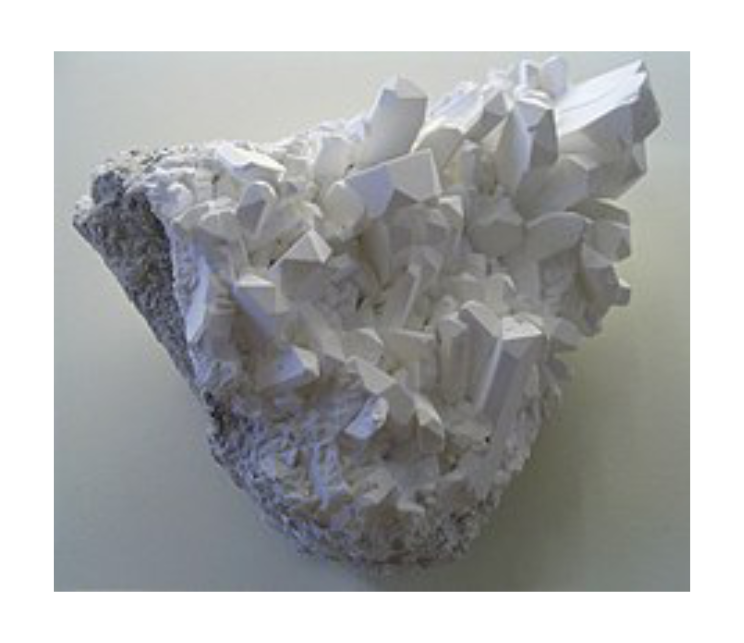
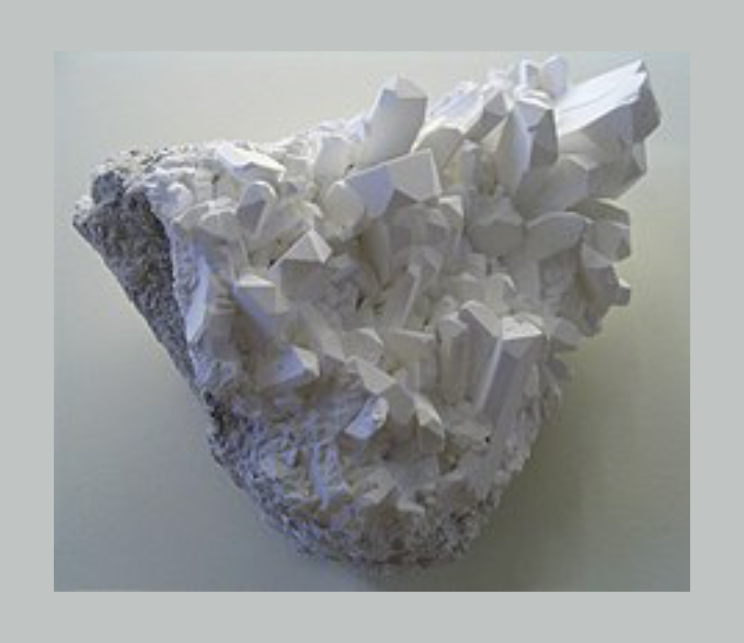
[Card] Adding more images + fix picto color depending on atom group

Changed region(s): [[0.0, 0.0, 1.0, 1.0]]

diff --git a/generate_cards_from_csv.py b/generate_cards_from_csv.py
@@ -2,10 +2,17 @@ from csv import DictReader
 import os
 from pathlib import Path
 
+from alive_progress import alive_bar
+from unidecode import unidecode
+
 from generate_card import generate_tradecard_image
 
 def str_round(str:str, nb:int):
-    return f"{round(float(str.replace(',','.')),2)}"
+    try :
+        convert = f"{round(float(str.replace(',','.')),2)}"
+    except:
+        convert = str
+    return convert
 
 def generate_tradecard_image_from_csv(
     csv_filepath,
@@ -13,7 +20,8 @@ def generate_tradecard_image_from_csv(
     atom_img_dirpath,
     picto_img_filepath,
     output_dirpath,
-    show_result=False):
+    show_result=False,
+    save=True):
 
     # read CSV
     with open(csv_filepath, 'r') as csv_file:
@@ -43,56 +51,70 @@ def generate_tradecard_image_from_csv(
             "métal de post-transition" : (102,59,59),
             "metalloïde" : (17,59,59),
             "autre non-métal" : (15,178,0),
+            "non-métal" : (15,178,0),
             "halogène" : (216,171,33),
-            "gas noble" : (155,0,187),
+            "gaz noble" : (155,0,187),
             "non classé" : (104,105,113)
         }
 
         # loop over the CSV lines and generate one card per CSV line
-        for row in reader:
-            number = row["numero_atomique"]
-            name = row["nom"]
-            symbol = row["symbole"]
-            subgroup = row["famille_d_element"]
-            mass = str_round(row["masse_atomique"], 2)
-            melt_temperature = str_round(row["point_de_fusion_[°C]"], 2)
-            vapor_temperature = str_round(row["point_d_ebullition_[°C]"], 2)
-            discovery_year = row["date_de_decouverte"]
-            #discovered_by = row["decouvert_par"]
-            description = row["description"]
+        rows = list(reader)
+        nb_rows = len(rows)
 
-            atom_img_filepath = atom_img_dirpath / Path(f"{name}.png")
-            atom_title = f"{name.capitalize()} ({symbol})"
-            atom_subgroup_title = f"{subgroup.capitalize()}"
-            atom_kpis = [f"{number}", f"{mass} u", f"{melt_temperature}°C", f"{vapor_temperature}°C", f"{discovery_year}"]
+        exports = []
 
-            if subgroup not in picto_color_map:
-                print(f"-- Cannot find picto color for {name} : {subgroup} - Skipped")
-                continue
+        with alive_bar(nb_rows) as bar:
 
-            picto_color = picto_color_map[subgroup]
+            for row in rows:
 
-            output_path = output_dirpath / Path(f"{name}.png")
+                number = row["numero_atomique"]
+                name = row["nom"]
+                symbol = row["symbole"]
+                subgroup = row["famille_d_element"]
+                mass = str_round(row["masse_atomique"], 2)
+                melt_temperature = str_round(row["point_de_fusion_[°C]"], 2)
+                vapor_temperature = str_round(row["point_d_ebullition_[°C]"], 2)
+                discovery_year = row["date_de_decouverte"]
+                #discovered_by = row["decouvert_par"]
+                description = row["description"]
 
-            if not os.path.isfile(atom_img_filepath):
-                print(f"-- Cannot find image for {name} : {atom_img_filepath} - Skipped")
-                continue
+                atom_img_filepath = atom_img_dirpath / Path(f"{unidecode(name)}.png")
+                atom_title = f"{name.capitalize()} ({symbol})"
+                atom_subgroup_title = f"{subgroup.capitalize()}"
+                atom_kpis = [f"{number}", f"{mass} u", f"{melt_temperature} °C", f"{vapor_temperature} °C", f"{discovery_year}"]
 
-            img = generate_tradecard_image(
-                background_img_filepath,
-                atom_img_filepath,
-                atom_title,
-                atom_subgroup_title,
-                picto_img_filepath,
-                picto_color,
-                atom_kpis,
-                description)
+                if subgroup not in picto_color_map:
+                    print(f"-- Cannot find picto color for {name} : {subgroup} - Skipped")
+                    continue
 
-            if show_result:
-                img.show()
+                picto_color = picto_color_map[subgroup]
 
-            img.save(output_path)
-            print(f"{name} : Card image saved to {output_path}")
+                output_path = output_dirpath / Path(f"{name}.png")
+
+                if not os.path.isfile(atom_img_filepath):
+                    print(f"-- Cannot find image for {name} : {atom_img_filepath} - Skipped")
+                    continue
+
+                img = generate_tradecard_image(
+                    background_img_filepath,
+                    atom_img_filepath,
+                    atom_title,
+                    atom_subgroup_title,
+                    picto_img_filepath,
+                    picto_color,
+                    atom_kpis,
+                    description)
+
+                if show_result:
+                    img.show()
+
+                if save:
+                    img.save(output_path)
+                    print(f"{name} : Card image saved to {output_path}")
+
+                exports.append({"number": number, "atom": name, "symbol": symbol, "path": output_path})
+
+                bar()
 
 if __name__ == "__main__":
     csv_filepath = "/Users/julien/Documents/Projects/tradecards_atom/assets/periodic_table_atoms.csv"
@@ -101,7 +123,8 @@ if __name__ == "__main__":
     picto_img_filepath = "/Users/julien/Documents/Projects/tradecards_atom/assets/picto.png"
     output_dirpath="/Users/julien/Documents/Projects/tradecards_atom/outputs"
 
-    show_result = True
+    show_result = False
+    save = True
 
     generate_tradecard_image_from_csv(
         csv_filepath,
@@ -109,4 +132,5 @@ if __name__ == "__main__":
         atom_img_dirpath,
         picto_img_filepath,
         output_dirpath,
-        show_result=show_result)
+        show_result=show_result,
+        save=save)
